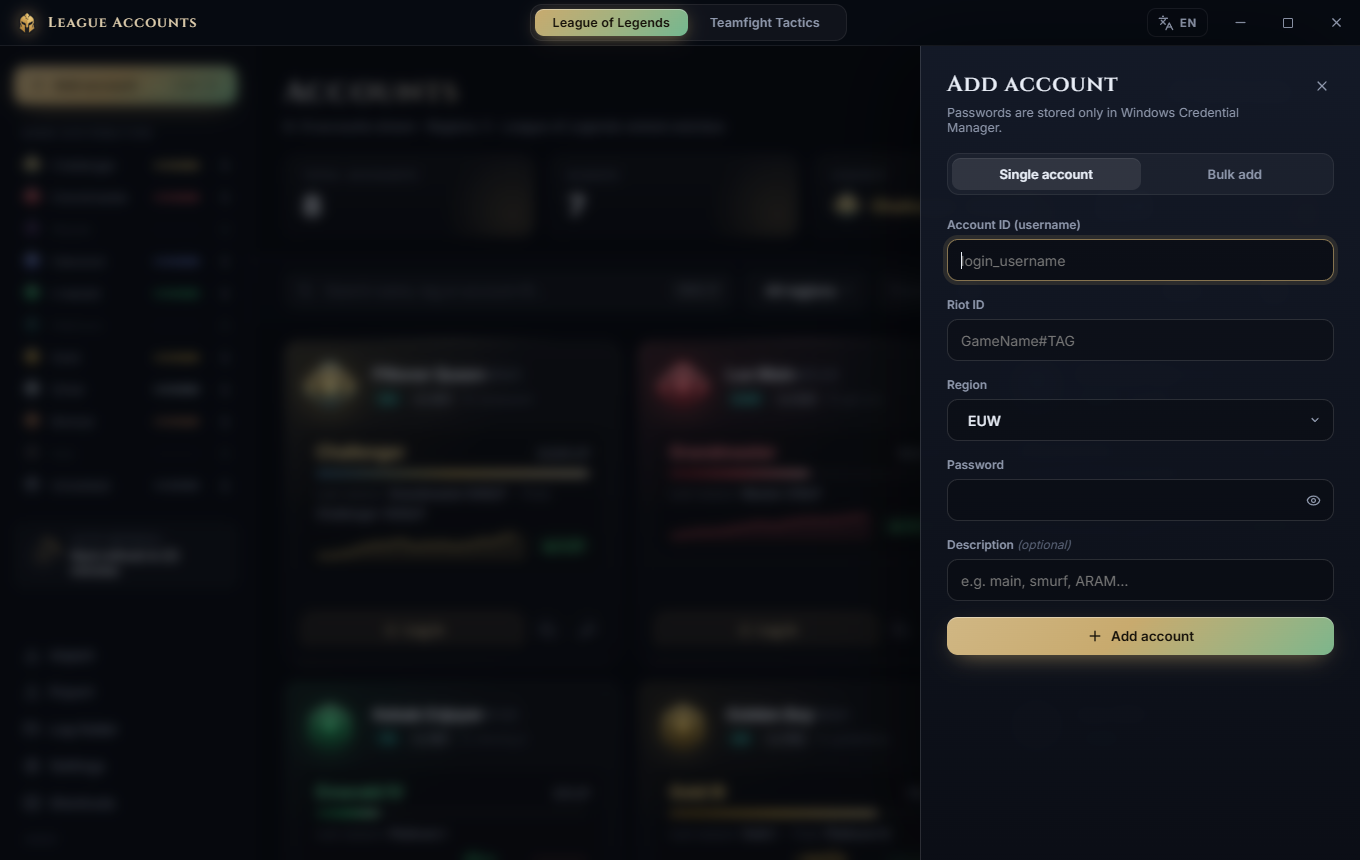
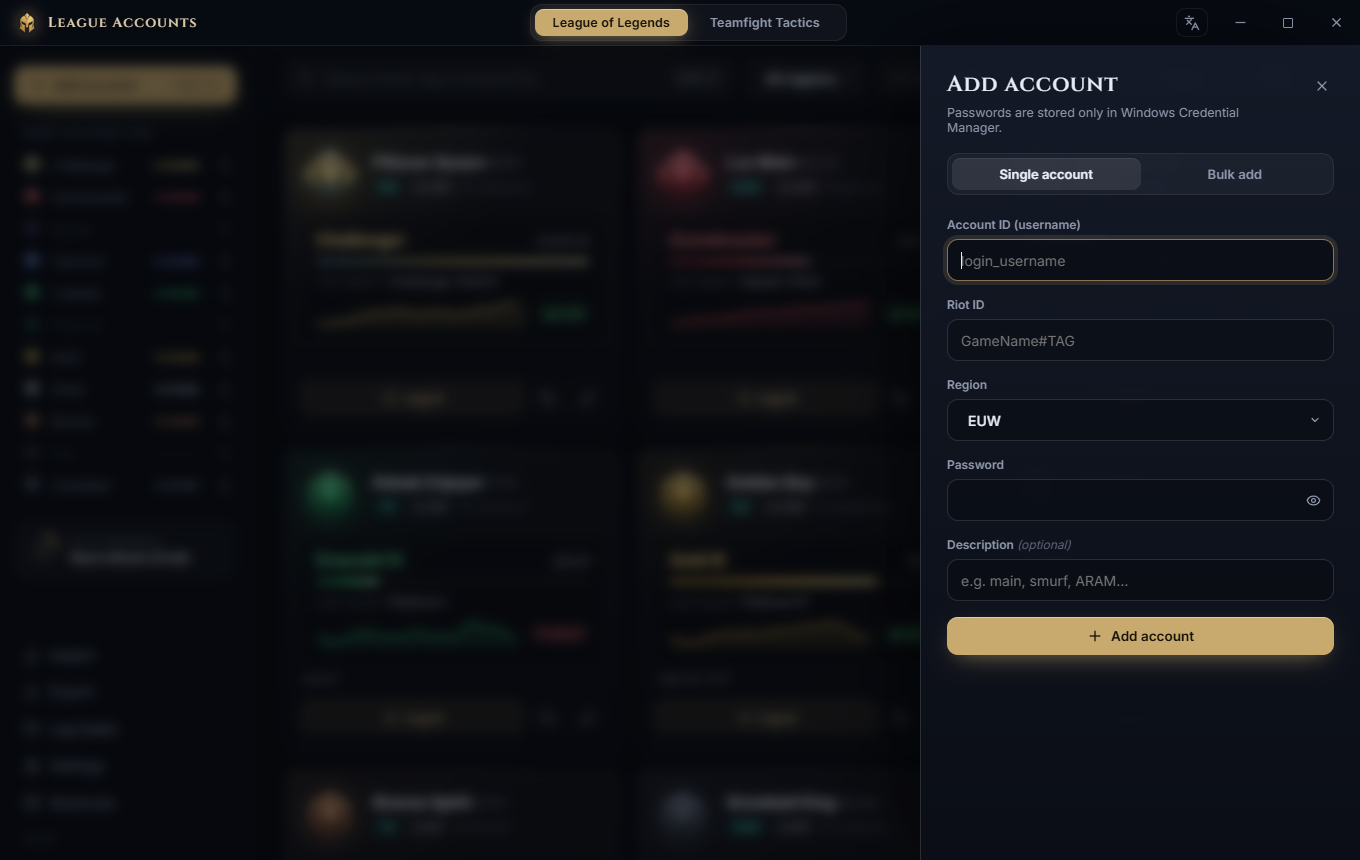
chore: release v3.1.0 from this fork
Point README and update checks at this fork, restore the credits, list Portuguese, and refresh the screenshots for the new design.

diff --git a/ui/src/mock.ts b/ui/src/mock.ts
@@ -109,7 +109,7 @@ export function installMock(): void {
     bootstrap: async () => ({
       accounts,
       regions: ["EUW", "EUNE", "NA", "KR", "TR", "BR"],
-      version: "3.0.0",
+      version: "3.1.0",
       loggingAvailable: true,
       loadError: null,
       settings,

diff --git a/src/updates.rs b/src/updates.rs
@@ -4,7 +4,7 @@ use serde::Serialize;
 use std::time::Duration;
 
 /// `owner/name` of the repository whose releases are checked.
-pub const REPOSITORY: &str = "Tariolle/LeagueAccounts";
+pub const REPOSITORY: &str = "FurkanZhlp/LeagueAccounts";
 
 #[derive(Clone, Debug, Serialize, PartialEq, Eq)]
 #[serde(rename_all = "camelCase")]

diff --git a/README.md b/README.md
@@ -7,7 +7,7 @@
 **All your League of Legends & Teamfight Tactics accounts in one place.**
 One-click login, live ranks, LP history and auto refresh — with passwords kept in Windows Credential Manager.
 
-[![Latest release](https://img.shields.io/github/v/release/Tariolle/LeagueAccounts?label=download&color=c8aa6e)](https://github.com/Tariolle/LeagueAccounts/releases/latest)
+[![Latest release](https://img.shields.io/github/v/release/FurkanZhlp/LeagueAccounts?label=download&color=c8aa6e)](https://github.com/FurkanZhlp/LeagueAccounts/releases/latest)
 ![Windows](https://img.shields.io/badge/platform-Windows%2010%20%7C%2011-0ac8b9)
 [![License: MIT](https://img.shields.io/badge/license-MIT-b47dff)](LICENSE)
 
@@ -23,7 +23,7 @@ One-click login, live ranks, LP history and auto refresh — with passwords kept
 - **Auto refresh.** Ranks update in the background on your schedule, every 30 minutes by default.
 - **Duo finder.** The *Friend elo* filter shows which of your accounts can play ranked with a friend of a given rank.
 - **Safe by design.** Passwords live in Windows Credential Manager and never reach the interface. A copied password is wiped from the clipboard after 30 seconds.
-- **Made for daily use.** Launch with Windows, start minimized, keyboard shortcuts, import/export, update notifications, and 5 languages (English, Türkçe, Deutsch, Español, Français).
+- **Made for daily use.** Launch with Windows, start minimized, keyboard shortcuts, import/export, update notifications, and 6 languages (English, Türkçe, Deutsch, Español, Français, Português).
 
 ## Screenshots
 
@@ -44,7 +44,7 @@ One-click login, live ranks, LP history and auto refresh — with passwords kept
 
 ## Installation
 
-1. Download **`LeagueAccounts.exe`** from the [latest release](https://github.com/Tariolle/LeagueAccounts/releases/latest).
+1. Download **`LeagueAccounts.exe`** from the [latest release](https://github.com/FurkanZhlp/LeagueAccounts/releases/latest).
 2. Put it anywhere you like (for example `Documents\LeagueAccounts`) and run it. Nothing else needs to be installed.
 3. On first launch Windows SmartScreen may say *"Windows protected your PC"*, because the app is not code-signed. Click **More info → Run anyway**.
 
@@ -107,7 +107,7 @@ The switch at the top changes every rank, sort order, chart and filter between *
 
 | Setting | Description |
 |---|---|
-| Language | English, Türkçe, Deutsch, Español, Français (follows your system language by default) |
+| Language | English, Türkçe, Deutsch, Español, Français, Português (follows your system language by default) |
 | Launch when Windows starts | Opens League Accounts when you sign in to Windows; optionally **start minimized** |
 | Refresh ranks automatically | On/off and interval in minutes (default 30) |
 | Login method | *Open the Riot Client and sign in* (default) or *Type into the previous window* |
@@ -152,7 +152,7 @@ The switch at the top changes every rank, sort order, chart and filter between *
 | *Riot Client was not found* | Install the Riot Client, or switch **Settings → Login** to *Type into the previous window*. |
 | *The Riot Client login screen didn't appear in time* | Open the Riot Client once manually (it may be updating), then try again. |
 | Ranks show **Unavailable** | Check that the Riot ID (`Name#TAG`) and region are correct, then use **Refresh ranks**. OP.GG may also be rate-limiting; try again later. |
-| Something else | Open **Log folder** in the sidebar and attach the newest `.log` file to an [issue](https://github.com/Tariolle/LeagueAccounts/issues). Logs contain no account data. |
+| Something else | Open **Log folder** in the sidebar and attach the newest `.log` file to an [issue](https://github.com/FurkanZhlp/LeagueAccounts/issues). Logs contain no account data. |
 
 ## Building from source
 
@@ -172,9 +172,9 @@ npx tauri build --no-bundle  # build target/release/LeagueAccounts.exe
 | `src-tauri/` | Tauri shell: commands, auto refresh scheduler, settings, update checker |
 | `ui/` | Web interface (TypeScript + CSS); translations live in `ui/src/i18n.ts` |
 
-## License and disclaimer
+## Credits and disclaimer
 
-League Accounts is released under the [MIT License](LICENSE).
+League Accounts builds on [LeagueAccounts](https://github.com/Tariolle/LeagueAccounts) by Florent Tariolle, licensed under the [MIT License](LICENSE). This fork keeps the LP history tracking that the upstream project leaves out.
 
 League Accounts isn't endorsed by Riot Games and doesn't reflect the views or opinions of Riot Games or anyone officially involved in producing or managing Riot Games properties. Riot Games, League of Legends and Teamfight Tactics are trademarks or registered trademarks of Riot Games, Inc. Rank data is provided by OP.GG; this project is not affiliated with OP.GG.
 
